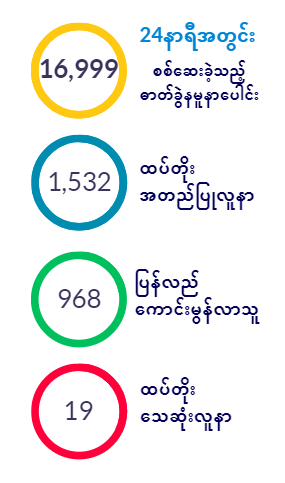
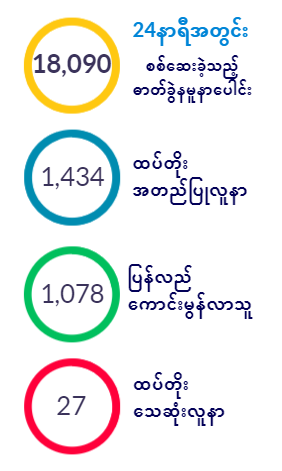
third commit

Changed region(s): [[0.0851, 0.0297, 0.9078, 0.9809], [0.1986, 0.8323, 0.3404, 0.8917]]

diff --git a/index.html b/index.html
@@ -1,7 +1,7 @@
 <!DOCTYPE html>
 <html>
 <head>
-    <title>Covid-19 Info</title>
+    <title>Covid-19 Info(Eng Version)</title>
     <link rel="shortcut icon" href="images1/si2.png">
   <meta name="viewport" content="width=device-width, initial-scale=1">
   <script src='https://kit.fontawesome.com/a076d05399.js'></script>
@@ -12,12 +12,13 @@
 
 <link rel="stylesheet" href="https://cdnjs.cloudflare.com/ajax/libs/font-awesome/4.7.0/css/font-awesome.min.css">
 
-<meta property="og:url"           content="https://covid-19infoweb.netlify.app/" />
-<meta property="og:type"          content="website" />
-<meta property="og:title"         content="Covid-19 Info" />
-<meta property="og:description"   content="Covid Information Sharing Platform" />
-<meta property="og:image"         content="https://covid-19infoweb.netlify.app/images1/icon.png" />
+<meta property="og:image" content="https://covid-19infoweb.netlify.app/images1/icon1.png" />
+<meta property="og:description" content="Nov 21, 8:00 PM" />
+<meta property="og:title" content="Covid-19 Info in Myanmar" />
+<meta property="og:url" content="https://covid-19infoweb.netlify.app/" />
+<meta property="og:type"          content="informative website" />
 <meta name="google-site-verification" content="tFS9qQuGOGx0IR6XdEdCP4OERbnSGeD8Bj-82RiFiCE" />
+
 
 <style type="text/css">
   table{
@@ -84,12 +85,14 @@ src: url('https://cdn.rawgit.com/LeonarAung/MyanmarFont/6cf1262f/mon3.woff') for
   </script>
 </head>
 <body>
+   <div id="fb-root"></div>
+<script async defer crossorigin="anonymous" src="https://connect.facebook.net/en_GB/sdk.js#xfbml=1&version=v9.0" nonce="HMLcQDtq"></script>
 
     <div id="wrapper" class="clearfix">
         <!-- Navbar -->
 <div id="fb-root"></div>
 <nav class="navbar  fixed-top navbar-expand-lg navbar-fixed-top navbar-light bg-light"style="background-color: #e3f2fd!important; ">
-  <a class="navbar-brand" href="#">
+  <a class="navbar-brand" href="#" style="font-weight: 500;">
     <img src="images1/sl.png" alt="">
      <!-- <img src="images1/icon1.png" alt=""> -->
 
@@ -186,7 +189,7 @@ src: url('https://cdn.rawgit.com/LeonarAung/MyanmarFont/6cf1262f/mon3.woff') for
             <div class="col-md-12 col-sm-12">
               <hr style="margin-bottom: 10px;"color="orange">
  <marquee bgcolor="orange"> 
-  <div class="running" style="font-size: 22px;color: #fff;font-family: sans-serif;">Last Updated on 19th Nov 8PM:<q>*Myanmar currently has +17,954 lab tests, +1,560 confirmed cases, +869 recovered cases, and +26 deaths.</q><div>
+  <div class="running" style="font-size: 22px;color: #fff;font-family: sans-serif;">Last Updated on 21th Nov 8PM:<q>Myanmar currently has +18,090 lab tests, +1,434 confirmed cases, +1,078 recovered cases, and +27 deaths.</q><div>
     </marquee>
  <hr style=" margin-top: 4px;" color="orange">
             </div>
@@ -207,7 +210,7 @@ src: url('https://cdn.rawgit.com/LeonarAung/MyanmarFont/6cf1262f/mon3.woff') for
   <div class="card-body">
     <h5 class="card-title">Total Lab Tests</h5>
     <p class="card-text" style="font-size: 18px;
-    font-weight: bold; color: #ffffff;">969,268</p>
+    font-weight: bold; color: #ffffff;">1,004,357</p>
   </div>
 </div>
 </div>
@@ -216,7 +219,7 @@ src: url('https://cdn.rawgit.com/LeonarAung/MyanmarFont/6cf1262f/mon3.woff') for
   <div class="card-body">
     <h5 class="card-title">Confirmed Cases</h5>
     <p class="card-text" style="font-size: 18px;
-    font-weight: bold; color: #ffffff;">74,882</p>
+    font-weight: bold; color: #ffffff;">77,848</p>
   </div>
 </div>
   </div>
@@ -225,7 +228,7 @@ src: url('https://cdn.rawgit.com/LeonarAung/MyanmarFont/6cf1262f/mon3.woff') for
   <div class="card-body">
     <h5 class="card-title">Recovered Cases</h5>
     <p class="card-text" style="font-size: 18px;
-    font-weight: bold; color: #ffffff;">55,633</p>
+    font-weight: bold; color: #ffffff;">57,679</p>
   </div>
 </div>
 </div>
@@ -235,7 +238,7 @@ src: url('https://cdn.rawgit.com/LeonarAung/MyanmarFont/6cf1262f/mon3.woff') for
   <div class="card-body">
     <h5 class="card-title">Death Toll</h5>
     <p class="card-text" style="font-size: 18px;
-    font-weight: bold; color: #ffffff;">1,676</p>
+    font-weight: bold; color: #ffffff;">1,722</p>
   </div>
 </div>
  </div>
@@ -252,13 +255,16 @@ src: url('https://cdn.rawgit.com/LeonarAung/MyanmarFont/6cf1262f/mon3.woff') for
                 <div class="col-md-6 col-sm-12">
                     <div class="shadow-sm pt-1 pb-2 mb-5 bg-white rounded">
                             <div id="daily_analytics_chart"></div>
+                            <center><div class="fb-like" data-href="https://covid-19infoweb.netlify.app" data-width="" data-layout="button_count" data-action="like" data-size="small" data-share="true"></div></center>
+
                           
                     </div>
                 </div>
                 <div class="col-md-6 col-sm-12">
                     <div class="shadow-sm pt-1 pb-2 mb-5 bg-white rounded">
                             <div id="daily_analytics_chart1"></div>
-                            
+                            <center><div class="fb-like" data-href="https://covid-19infoweb.netlify.app" data-width="" data-layout="button_count" data-action="like" data-size="small" data-share="true"></div></center>
+
                     </div>
                 </div>
 
@@ -375,7 +381,8 @@ src: url('https://cdn.rawgit.com/LeonarAung/MyanmarFont/6cf1262f/mon3.woff') for
     </tr> -->
   </tbody>
 </table>
-
+<!-- <center><div class="fb-like" data-href="https://covid-19infoweb.netlify.app" data-width="" data-layout="button_count" data-action="like" data-size="small" data-share="true"></div></center>
+ -->
         </div>
         <div class="col-md-6 col-sm-12">
             <table class=" table table-striped table table-hover table-light">
@@ -478,8 +485,21 @@ src: url('https://cdn.rawgit.com/LeonarAung/MyanmarFont/6cf1262f/mon3.woff') for
     </tr>
  -->  </tbody>
 </table>
+<!-- <center><div class="fb-like" data-href="https://covid-19infoweb.netlify.app" data-width="" data-layout="button_count" data-action="like" data-size="small" data-share="true"></div></center> -->
+
         </div>
-        
+      </div>
+             <div class="row">
+    <div class="col-md-12 col-sm-12">
+    <a style="text-align:center;"href="InfoPage.html">
+          <div class="alert alert-warning alert-dismissible fade show" role="alert">
+            <strong style="font-family: Unicode;">မြန်မာဗားရှင်း <i class="fas fa-link" style="font-size: 17px"></i> Click here</strong>
+            <button type="button" class="close" data-dismiss="alert" aria-label="Close">
+              <span aria-hidden="true">&times;</span>
+            </button>
+          </div>
+        </a>
+      </div>
         <div class="col-md-12 col-sm-12">
          <div class="alert alert-warning alert-dismissible fade show" id="share" role="alert" style="text-align: center;margin-top: -5px;
     margin-bottom: 25px;">
@@ -603,14 +623,14 @@ src: url('https://cdn.rawgit.com/LeonarAung/MyanmarFont/6cf1262f/mon3.woff') for
     text: 'Covid-19 Tests per Day'
   },
   xAxis: {
-    categories: ['Oct 10', 'Oct 11', 'Oct 12', 'Oct 13', 'Oct 14','Oct 15','Oct 16', 'Oct 17', 'Oct 18', 'Oct 19', 'Oct 20', 'Oct 21', 'Oct 22','Oct 23', 'Oct 24']
+    categories: ['Nov 10', 'Nov 11','Nov 12','Nov 13','Nov 14','Nov 15','Nov 16','Nov 17','Nov 18','Nov 19','Nov 20','Nov 21']
   },
   credits: {
     enabled: false
   },
   series: [{
     name: 'Tests per day',
-    data: [16312,14809,14707,13258,9656,12975,13510,19736,12307,19103,15329,14362,13774,13699,14230],
+    data: [17000,15534,17250,15281,14777,13347,21232,17954,16999,18090],
     color: "black"
   }]
 });
@@ -681,22 +701,22 @@ src: url('https://cdn.rawgit.com/LeonarAung/MyanmarFont/6cf1262f/mon3.woff') for
     text: 'Covid-19 Cases per Day'
   },
   xAxis: {
-    categories: ['Oct 10', 'Oct 11', 'Oct 12', 'Oct 13', 'Oct 14', 'Oct 15', 'Oct 16', 'Oct 17', 'Oct 18', 'Oct 19', 'Oct 20', 'Oct 21', 'Oct 22','Oct 23', 'Oct 24']
+    categories: ['Nov 10', 'Nov 11','Nov 12','Nov 13','Nov 14','Nov 15','Nov 16','Nov 17','Nov 18','Nov 19','Nov 20','Nov 21']
   },
   credits: {
     enabled: false
   },
   series: [{
     name: 'Confirmed Cases',
-    data: [2158,1910,1344,1123,888,1026,1138,1387,1150,1180,1306,1194,1312,1361,1423]
+    data: [1266,1212,1145,1136,1277,983,1592,1560,1532,1434]
   }, {
     name: 'Recovered Cases',
-    data: [312,2692,518,1509,2097,840,771,893,706,492,579,718,2279,1301,1254],
+    data: [750,1121,1031,773,1026,989,490,869,968,1078],
     color: "#66a832"
 
   }, {
     name: 'Death Toll',
-    data: [32,48,18,29,39,33,34,39,42,34,31,27,33,33,28],
+    data: [24,19,28,26,18,25,25,26,19,27],
     color: "red"
   }]
 });

diff --git a/InfoPage.html b/InfoPage.html
@@ -1,7 +1,7 @@
 <!DOCTYPE html>
 <html>
 <head>
-    <title>Covid-19 Info >Info Page</title>
+    <title style="font-family:Unicode;">Covid-19 Info(မြန်မာဗားရှင်း)</title>
     <link rel="shortcut icon" href="images1/si2.png">
   <meta name="viewport" content="width=device-width, initial-scale=1">
   <script src='https://kit.fontawesome.com/a076d05399.js'></script>
@@ -12,10 +12,11 @@
 
 <link rel="stylesheet" href="https://cdnjs.cloudflare.com/ajax/libs/font-awesome/4.7.0/css/font-awesome.min.css">
 
-<meta property="og:url"           content="https://covid-19infoweb.netlify.app/InfoPage.html" />
-<meta property="og:type"          content="website" />
-<meta property="og:title"         content="Covid-19 Info" />
-<meta property="og:image"         content="https://covid-19infoweb.netlify.app/images1/icon.png" />
+<meta property="og:image" content="https://covid-19infoweb.netlify.app/images1/icon1.png" />
+<meta property="og:description" style="font-family:Unicode;" content="နို၀င်ဘာ ၂၁ ရက်၊ ည ၈:၀၀" />
+<meta property="og:title" style="font-family:Unicode;" content="မြန်မာနိုင်ငံတွင်ကိုဗစ်ဖြစ်ပွားနေမှုအခြေအနေ" />
+<meta property="og:url" content="https://covid-19infoweb.netlify.app/" />
+<meta property="og:type"          content="informative website" />
 <meta name="google-site-verification" content="tFS9qQuGOGx0IR6XdEdCP4OERbnSGeD8Bj-82RiFiCE" />
 
 <style>
@@ -82,12 +83,13 @@ nav.navbar.shrink{
   </script>
 </head>
 <body>
-
+      <div id="fb-root"></div>
+<script async defer crossorigin="anonymous" src="https://connect.facebook.net/en_GB/sdk.js#xfbml=1&version=v9.0" nonce="HMLcQDtq"></script>
        <div id="wrapper" class="clearfix">
         <!-- Navbar -->
 <div id="fb-root"></div>
 <nav class="navbar  fixed-top navbar-expand-lg navbar-fixed-top navbar-light bg-light"style="background-color: #e3f2fd!important; ">
-  <a class="navbar-brand" href="#">
+  <a class="navbar-brand" href="#" style="font-weight: 500;">
     <img src="images1/sl.png" alt="">
      <!-- <img src="images1/icon1.png" alt=""> -->
 
@@ -193,7 +195,7 @@ nav.navbar.shrink{
             <div class="col-md-12 col-sm-12">
               <hr style="margin-bottom: 10px;"color="#3F51B5">
  <marquee bgcolor="#3F51B5"> 
-  <div class="running" style='font-family:Unicode;font-size: 20px; color: #FFFFFF; font-weight: 600px'> ကျန်းမာရေးနှင့်အားကစားဝန်ကြီးဌာန၏ နို၀င်ဘာ ၂၀ ရက်၊ ည ၈:၀၀ တွင် ထုတ်ပြန်သောသတင်းအရ မြန်မာနိုင်ငံတွင် ဓာတ်ခွဲအတည်ပြုလူနာစုစုပေါင်း ၇၆,၄၁၄ ဦး၊ ပြန်လည်ကောင်းမွန်လာသူစုစုပေါင်း ၅၆,၆၀၁ ဦး၊ နှင့် သေဆုံးလူနာစုစုပေါင်း ၁,၆၉၅ ဦး ရှိပါသည်။ ။<div>
+  <div class="running" style='font-family:Unicode;font-size: 20px; color: #FFFFFF; font-weight: 600px'> ကျန်းမာရေးနှင့်အားကစားဝန်ကြီးဌာန၏ နို၀င်ဘာ ၂၁ ရက်၊ ည ၈:၀၀ တွင် ထုတ်ပြန်သောသတင်းအရ မြန်မာနိုင်ငံတွင် စစ်ဆေးပြီးသည့်ဓာတ်ခွဲနမူနာစုစုပေါင်း ၁,၀၀၄,၃၅၇ ဦး၊ ဓာတ်ခွဲအတည်ပြုလူနာစုစုပေါင်း ၇၇,၈၄၈ ဦး၊ ပြန်လည်ကောင်းမွန်လာသူစုစုပေါင်း ၅၇,၆၇၉ ဦး၊ နှင့် သေဆုံးလူနာစုစုပေါင်း ၁,၇၂၂ ဦး ရှိပါသည်။ ။<div>
     </marquee>
  <hr style=" margin-top: 4px;" color="#3F51B5">
             </div>
@@ -214,6 +216,8 @@ nav.navbar.shrink{
     <!-- <div class="shadow-sm pt-1 pb-2 mb-5 bg-white rounded"> -->
     
     <img class="info" src="images1/info1.png">
+    <center><div class="fb-like" data-href="https://covid-19infoweb.netlify.app/images1/info1.png" data-width="" data-layout="button_count" data-action="like" data-size="small" data-share="true"></div></center>
+
    </div>
  </li>
  <li>
@@ -221,6 +225,8 @@ nav.navbar.shrink{
     <!-- <div class="shadow-sm pt-1 pb-2 mb-5 bg-white rounded"> -->
     
     <img class="info" src="images1/info2.png">
+    <center><div class="fb-like" data-href="https://covid-19infoweb.netlify.app/images1/info2.png" data-width="" data-layout="button_count" data-action="like" data-size="small" data-share="true"></div></center>
+
    </div>
  </li>
 
@@ -230,6 +236,8 @@ nav.navbar.shrink{
     <!-- <div class="shadow-sm pt-1 pb-2 mb-5 bg-white rounded"> -->
 
     <img class="info-data" src="images1/info_data.png">
+    <center><div class="fb-like" data-href="https://covid-19infoweb.netlify.app/images1/info_data.png" data-width="" data-layout="button_count" data-action="like" data-size="small" data-share="true"></div></center>
+
    </div>
  </li>
 </ul>
@@ -262,7 +270,32 @@ nav.navbar.shrink{
   }
   }
   </style>
-        <div class="row">
+  <div class="row">
+    <div class="col-md-12 col-sm-12">
+    <a href="index.html">
+          <div class="alert alert-warning alert-dismissible fade show" role="alert">
+            <strong>For more Info <i class="fas fa-link" style="font-size: 17px"></i> Click here</strong>
+            <button type="button" class="close" data-dismiss="alert" aria-label="Close">
+              <span aria-hidden="true">&times;</span>
+            </button>
+          </div>
+        </a>
+      </div>
+    </div>
+        <!-- <div class="col-md-12 col-sm-12">
+         <div class="alert alert-warning alert-dismissible fade show" role="alert" style="text-align: center;
+    margin-bottom: 25px;
+">
+            <strong>For more Info : Click here 
+            <button type="button" class="close" data-dismiss="alert" aria-label="Close">
+              <span aria-hidden="true">&times;</span>
+            </button>
+          </div>
+        </div> -->
+        
+
+
+    <div class="row">
         <div class="col-md-12 col-sm-12">
          <div id="share"class="alert alert-warning alert-dismissible fade show" role="alert" style="text-align: center;
     margin-bottom: 25px;
